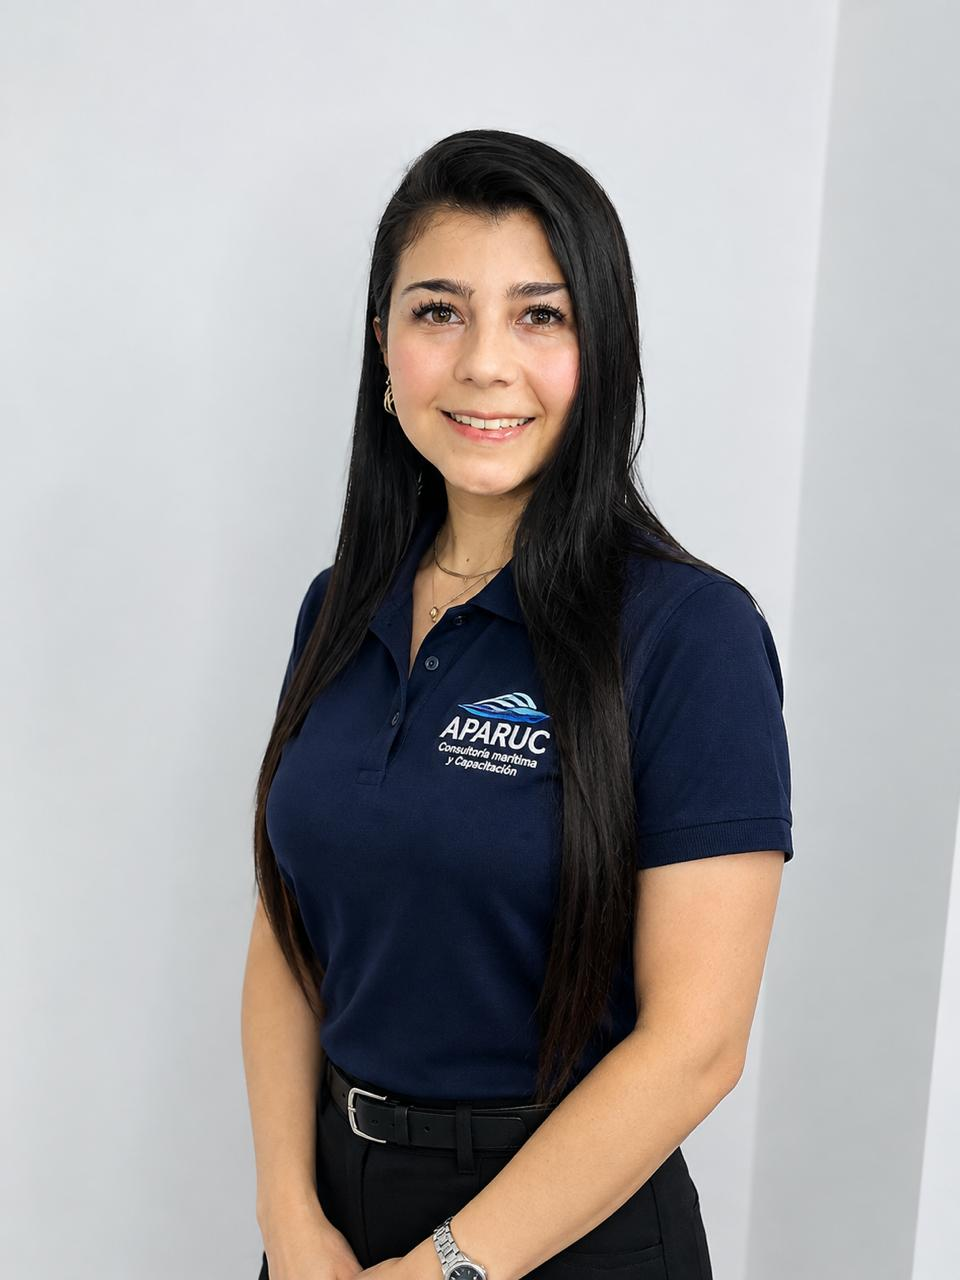
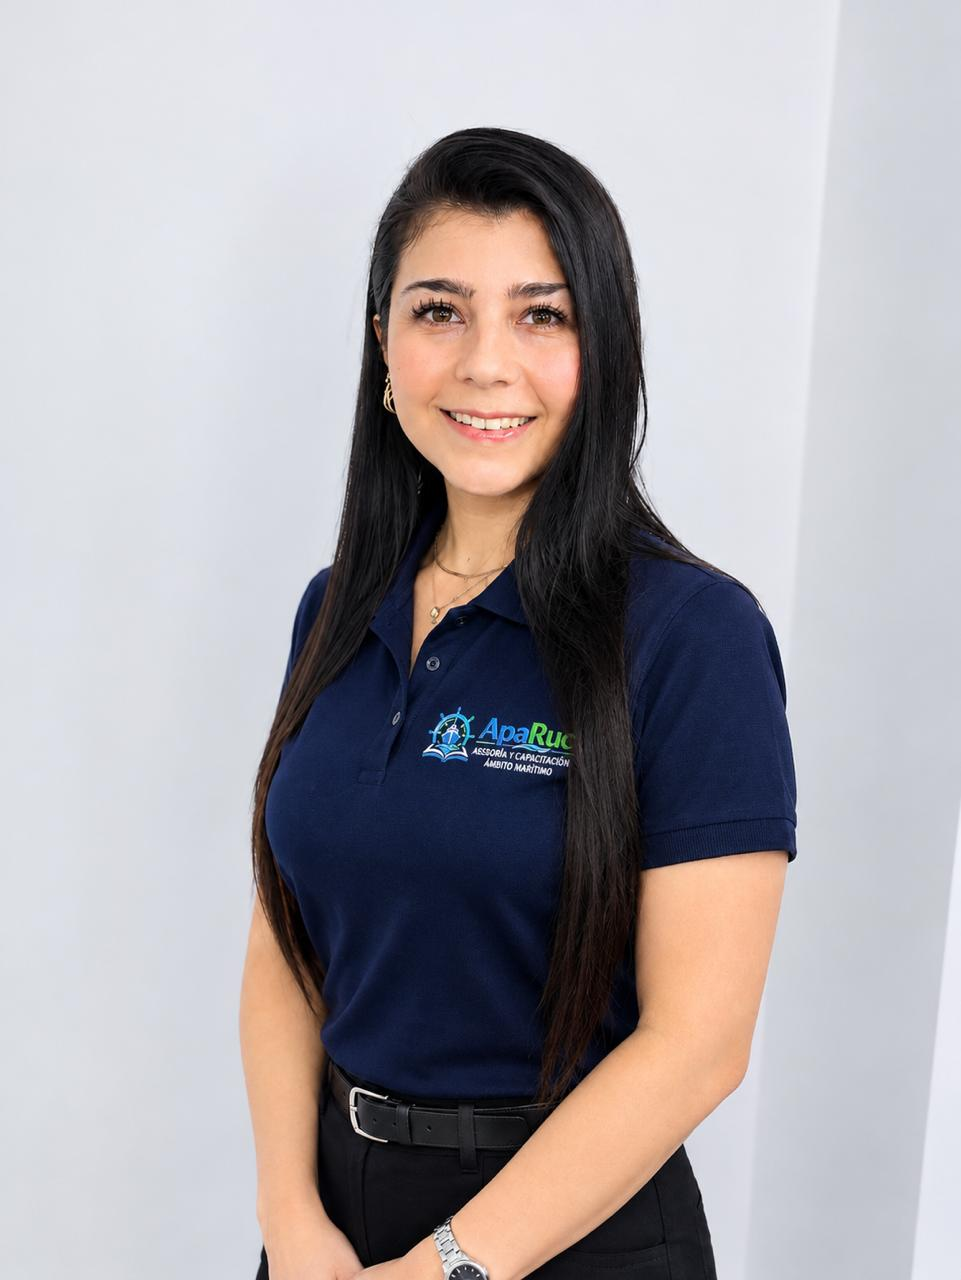
Actualiza foto de la sección Más preparación

diff --git a/src/App.tsx b/src/App.tsx
@@ -6,7 +6,7 @@ const advantages=[{icon:Layers,title:'Soluciones integrales',text:'Un solo prove
 export default function App(){return <><a className="skip-link" href="#contenido">Saltar al contenido</a><Header/><main id="contenido"><section id="inicio" className="hero"><div className="hero-landscape" role="img" aria-label="Fotografía de un puerto con embarcaciones, montañas y un arcoíris"/><div className="hero-shade"/><div className="container hero-content"><Reveal><p className="eyebrow light"><span/>EXPERIENCIA QUE MARCA EL RUMBO</p><h1>Seguridad y experiencia<br/>para la industria<br/><em>marítima.</em></h1><p className="hero-description">Asesoría, inspecciones, auditorías y capacitación marítima especializada para la industria salmonera y prestadores de servicios desde Puerto Aysén y Puerto Chacabuco, Patagonia Chilena.</p><div className="hero-buttons"><a className="button" href="#servicios">Conoce nuestros servicios<ArrowUpRight size={18}/></a><a className="button button-outline" href="#contacto">Solicitar asesoría<ArrowRight size={17}/></a></div><p className="hero-slogan">Formando talento, fortaleciendo la seguridad marítima.</p></Reveal><div className="hero-location"><MapPin size={16}/><span>PUERTO AYSÉN<br/><b>PATAGONIA CHILENA</b></span></div></div><div className="hero-bottom container"><div className="hero-stat"><strong>30<span>+</span></strong><span>Años de experiencia<br/>en el mundo marítimo</span></div><div className="hero-stat"><strong>22</strong><span>Servicios especializados</span></div><div className="hero-stat location-stat"><Compass size={35} strokeWidth={1.2}/><span><b>Puerto Aysén</b><br/>Nuestra base operativa</span></div><a href="#nosotros" className="scroll-link" aria-label="Descubrir APARUC">DESCUBRE APARUC<ChevronDown size={20}/></a></div></section>
 <section id="nosotros" className="section about"><div className="container"><div className="about-grid"><Reveal className="about-visual"><div className="about-photo" role="img" aria-label="Personal con equipos de protección durante una maniobra de izaje entre embarcaciones"/><div className="image-caption"><Anchor size={19}/><span>Conocimiento del mar.<br/><b>Compromiso con tu operación.</b></span></div><div className="experience-tag"><strong>+30</strong><span>AÑOS DE EXPERIENCIA<br/>MARÍTIMA</span></div></Reveal><div><SectionTitle eyebrow="NUESTRO RUMBO" title="Comprometidos con la seguridad y el desarrollo marítimo"/><Reveal><p>En APARUC conectamos la experiencia marítima con las necesidades de la industria acuícola. Asesoramos y capacitamos a empresas salmoneras y proveedores marítimos para fortalecer el cumplimiento normativo, la seguridad de navegación y la formación de sus trabajadores.</p><p>Conocemos las exigencias del transporte marítimo, las embarcaciones prestadoras de servicios, los centros de cultivos, artefactos navales, retiro de mortalidad, transporte de MERPEL, aguas negras y todo lo relacionado en el ámbito marítimo. Por eso, acompañamos cada operación con una mirada práctica y cercana.</p><a className="text-link" href="#contacto">Conversemos sobre tu operación<ArrowUpRight size={18}/></a></Reveal></div></div><div className="pillars">{pillars.map(p=><Reveal key={p.title} className="pillar">{p.icon===Award&&<img className="experience-portrait" src="/experiencia-personal.jpeg" alt="Integrante de APARUC" width={1075} height={1280} loading="lazy"/>}{p.icon===Target&&<img className="experience-portrait" src="/soluciones-a-medida.jpeg" alt="Maniobra de izaje de una embarcación con grúa" width={720} height={1280} loading="lazy"/>}{p.icon===HeartHandshake&&<img className="experience-portrait" src="/compromiso.jpeg" alt="Personal con equipos de protección revisando la sujeción de un contenedor a bordo" width={1280} height={960} loading="lazy"/>}{p.icon===Anchor&&<img className="experience-portrait" src="/cobertura.jpeg" alt="Cubierta de una embarcación con cilindros de gas, carga y una grúa" width={1280} height={960} loading="lazy"/>}<p.icon size={27} strokeWidth={1.4}/><h3>{p.title}</h3><p>{p.text}</p></Reveal>)}</div></div></section>
 <section id="servicios" className="section services"><div className="container"><div className="heading-row"><SectionTitle eyebrow="EXPERIENCIA A TU SERVICIO" title="Soluciones marítimas integrales" description="Servicios especializados para fortalecer la seguridad, el cumplimiento normativo y la continuidad de las operaciones."/><span className="section-index">01 — 06 / ESPECIALIDADES</span></div><div className="service-grid">{services.map((s,i)=><Reveal className="service-card" key={s.title}><div className="service-top"><s.icon size={29} strokeWidth={1.4}/><span>0{i+1}</span></div><h3>{s.title}</h3><p>{s.description}</p><details><summary>Explorar servicios<ChevronDown size={18}/></summary><ul>{s.items.map(item=><li key={item}>{item}</li>)}</ul><a className="text-link" href="#contacto">Consultar por este servicio<ArrowUpRight size={16}/></a></details></Reveal>)}</div><p className="services-note"><ShieldCheck size={18}/>Asesoría técnica y acompañamiento para las exigencias de la Autoridad Marítima.</p></div></section>
-<section id="certificaciones" className="section credentials"><div className="container"><div className="credential-grid"><div><SectionTitle eyebrow="RESPALDO Y CONOCIMIENTO" title="Experiencia respaldada por formación y habilitaciones" description="Preparación técnica para enfrentar los desafíos de una industria exigente."/><Reveal className="resolution"><ShieldCheck size={33}/><div><span>RESOLUCIÓN DIRECTEMAR</span><h3>D.G.T.M. y M.M. Ord.<br/>N.º 12.600/01/288</h3></div></Reveal><Reveal><img className="credential-photo" src="/experiencia-respaldada.jpeg" alt="Integrante de APARUC frente a una cámara hiperbárica del Hospital San Pablo" width={965} height={1280} loading="lazy"/></Reveal></div><Reveal><div className="credential-list">{credentials.map(c=><div key={c}><span className="check-icon"><Check size={16}/></span><p>{c}</p></div>)}</div><p className="credential-note">Las certificaciones y acreditaciones señaladas corresponden al personal según el portafolio. No implican que APARUC sea una institución certificadora ni que emita certificaciones oficiales.</p></Reveal></div><div id="cursos" className="expertise"><h3>Más preparación, mayor capacidad de respuesta.</h3><p>Otras capacitaciones que realiza nuestra empresa:</p><div className="expertise-layout"><div className="expertise-tags">{expertise.map(e=><span key={e}>{e}</span>)}<p className="expertise-more">Y muchos más</p></div><img className="expertise-photo" src="/personal-areas-experiencia.jpeg" alt="Integrante del equipo APARUC" width={960} height={1280} loading="lazy"/></div></div></div></section>
+<section id="certificaciones" className="section credentials"><div className="container"><div className="credential-grid"><div><SectionTitle eyebrow="RESPALDO Y CONOCIMIENTO" title="Experiencia respaldada por formación y habilitaciones" description="Preparación técnica para enfrentar los desafíos de una industria exigente."/><Reveal className="resolution"><ShieldCheck size={33}/><div><span>RESOLUCIÓN DIRECTEMAR</span><h3>D.G.T.M. y M.M. Ord.<br/>N.º 12.600/01/288</h3></div></Reveal><Reveal><img className="credential-photo" src="/experiencia-respaldada.jpeg" alt="Integrante de APARUC frente a una cámara hiperbárica del Hospital San Pablo" width={965} height={1280} loading="lazy"/></Reveal></div><Reveal><div className="credential-list">{credentials.map(c=><div key={c}><span className="check-icon"><Check size={16}/></span><p>{c}</p></div>)}</div><p className="credential-note">Las certificaciones y acreditaciones señaladas corresponden al personal según el portafolio. No implican que APARUC sea una institución certificadora ni que emita certificaciones oficiales.</p></Reveal></div><div id="cursos" className="expertise"><h3>Más preparación, mayor capacidad de respuesta.</h3><p>Otras capacitaciones que realiza nuestra empresa:</p><div className="expertise-layout"><div className="expertise-tags">{expertise.map(e=><span key={e}>{e}</span>)}<p className="expertise-more">Y muchos más</p></div><img className="expertise-photo" src="/personal-areas-experiencia.jpeg" alt="Integrante del equipo APARUC con polera institucional" width={961} height={1280} loading="lazy"/></div></div></div></section>
 <section id="sectores" className="section sectors"><div className="container"><SectionTitle eyebrow="DONDE TU OPERACIÓN NOS NECESITA" title="Presentes en cada etapa de la operación marítima"/><div className="sector-grid">{sectors.map((s,i)=><Reveal className="sector-card" key={s.title}><div><s.icon size={26} strokeWidth={1.4}/><span>0{i+1}</span></div><h3>{s.title}</h3><p>{s.text}</p></Reveal>)}</div></div></section>
 <section className="why section"><div className="why-background"/><div className="container why-layout"><div><SectionTitle eyebrow="CONFIANZA QUE ACOMPAÑA" title="Tu aliado estratégico en seguridad marítima" description="Desde la Patagonia, trabajamos contigo para que cada operación avance con mayor preparación y seguridad."/><a className="button" href="#contacto">Hablemos de tu próximo desafío<ArrowUpRight size={18}/></a></div><div className="advantage-grid">{advantages.map(a=><Reveal className="advantage" key={a.title}><a.icon size={25} strokeWidth={1.4}/><h3>{a.title}</h3><p>{a.text}</p></Reveal>)}</div></div></section>
 <section id="contacto" className="section contact"><div className="container contact-grid"><div><SectionTitle eyebrow="EL PRIMER PASO ES CONVERSAR" title="Conversemos sobre tu operación marítima" description="Contáctanos para coordinar una visita técnica y evaluar las necesidades de tu centro de cultivo, planta, terminal o embarcación."/><div className="contact-links"><a href="https://wa.me/56991370267" target="_blank" rel="noopener noreferrer" aria-label="Contactar por WhatsApp al +56 9 9137 0267"><Phone/><span><small>ESCRÍBENOS POR WHATSAPP</small>+56 9 9137 0267</span><ArrowUpRight size={18}/></a><a href="mailto:m.apablaza@aparuc.cl"><Mail/><span><small>ESCRÍBENOS</small>m.apablaza@aparuc.cl</span><ArrowUpRight size={18}/></a><a href="https://www.instagram.com/aparuc.chile/" target="_blank" rel="noopener noreferrer"><Instagram/><span><small>SÍGUENOS EN INSTAGRAM</small>@aparuc.chile</span><ArrowUpRight size={18}/></a></div><p className="whatsapp-note">Haz clic en el número para conversar por WhatsApp.</p><div className="contact-location"><MapPin size={23}/><div><strong>Puerto Aysén</strong><p>Patagonia Chilena<br/>Cerca del mar. Cerca de tu operación.</p></div></div></div></div></section></main><footer><div className="container"><div className="footer-top"><div><Logo/><p>Formando talento,<br/>fortaleciendo la seguridad marítima.</p></div><div className="footer-links"><span>EXPLORA</span>{nav.filter(n=>n[1]!=='inicio').map(([name,id])=><a key={name} href={`#${id}`}>{name}</a>)}</div><div className="footer-contact"><span>ESTAMOS PARA ACOMPAÑARTE</span><a href="mailto:m.apablaza@aparuc.cl">m.apablaza@aparuc.cl<ArrowUpRight size={16}/></a><a href="https://wa.me/56991370267" target="_blank" rel="noopener noreferrer" aria-label="Contactar por WhatsApp al +56 9 9137 0267">+56 9 9137 0267</a><a href="https://www.instagram.com/aparuc.chile/" target="_blank" rel="noopener noreferrer"><Instagram size={17}/>@aparuc.chile</a><p>Puerto Aysén · Patagonia Chilena</p></div></div><div className="footer-bottom"><p>© {new Date().getFullYear()} APARUC. Todos los derechos reservados.</p><span>ASESORÍA · INSPECCIONES · CAPACITACIÓN</span><a href="#inicio" aria-label="Volver al inicio">VOLVER ARRIBA ↑</a></div><p className="photo-credit">Ilustraciones de fiordos referenciales. No representan operaciones propias de APARUC.</p></div></footer></>}
